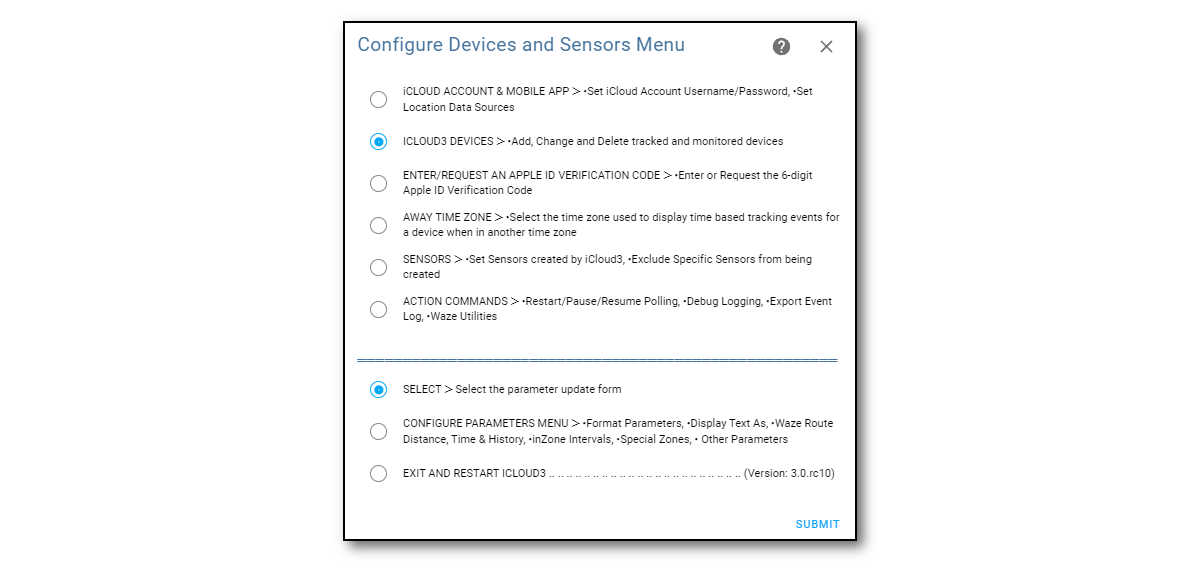
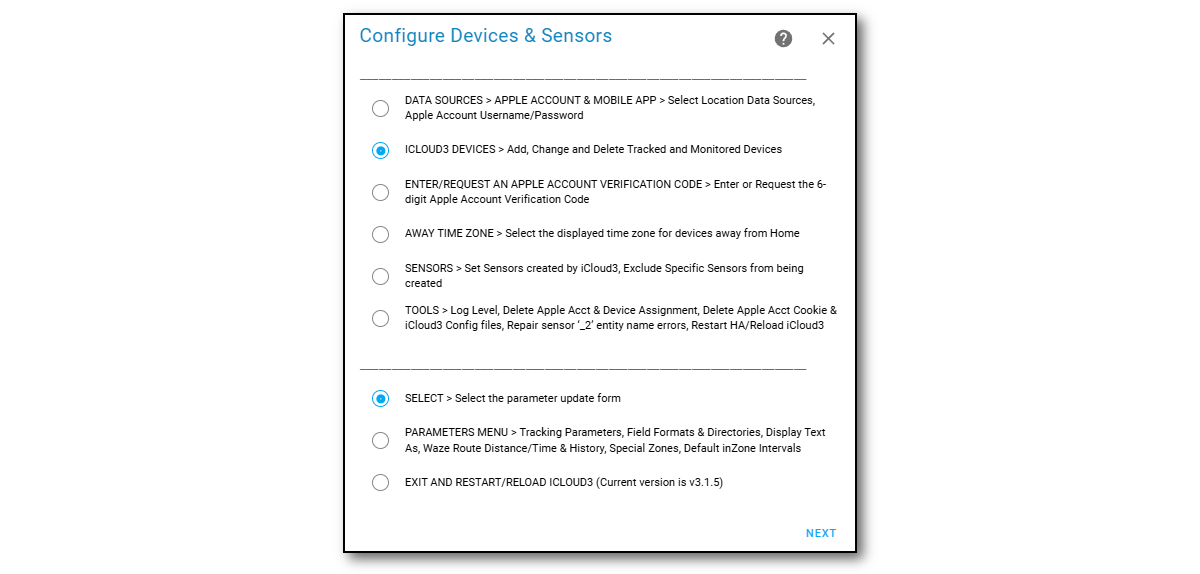
icloud3 docs

diff --git a/docs/chapters/~0.1-introduction.md b/docs/chapters/~0.1-introduction.md
@@ -1,8 +1,8 @@
 # iCloud3 v3 Device Tracker Custom Component
 
-[![CurrentVersion](https://img.shields.io/badge/Current_Version-v3.1.x-blue.svg)](https://github.com/gcobb321/icloud3_v3)  [![Type](https://img.shields.io/badge/Type-Custom_Component-orange.svg)](https://github.com/gcobb321/icloud3_v3)  [![HACS](https://img.shields.io/badge/HACS-Custom_Repository-orange.svg)](https://github.com/gcobb321/icloud3_v3)
+[![CurrentVersion](https://img.shields.io/badge/Current_Version-v3.0.0-blue.svg)](https://github.com/gcobb321/icloud3_v3)  [![Type](https://img.shields.io/badge/Type-Custom_Component-orange.svg)](https://github.com/gcobb321/icloud3_v3)  [![HACS](https://img.shields.io/badge/HACS-Custom_Repository-orange.svg)](https://github.com/gcobb321/icloud3_v3)
 
-[![ProjectStage](https://img.shields.io/badge/Project_Stage-Release_Candidate_1-forestgreen.svg)](https://github/gcobb321/icloud3_v3)  [![Released](https://img.shields.io/badge/Released-February,_2025-forestgreen.svg)](https://github.com/gcobb321/icloud3_v3)
+[![ProjectStage](https://img.shields.io/badge/Project_Stage-Release_Candidate_1-forestgreen.svg)](https://github/gcobb321/icloud3_v3)  [![Released](https://img.shields.io/badge/Released-July,_2023-forestgreen.svg)](https://github.com/gcobb321/icloud3_v3)
 
 
 
@@ -15,8 +15,7 @@ Although Home Assistant has it's own official iCloud component, iCloud3 goes far
 
 - **HA Integration** - iCloud3 is a Home Assistant custom integration that is set up and configured from the *HA Settings > Devices & Services > Integrations* screen.
 - **Configuration Settings** - All of the parameters are updated on configuration screens selected from the *iCloud3 Integrations* entry.
-- **Track devices from several sources** - Family members on the iCloud Account Family Sharing list and devices that have installed the HA Mobile App can be tracked.
-- **Multiple Apple Accounts** - Devices from up to 10 Apple Accounts can be tracked.
+- **Track devices from several sources** - Family members on the iCloud Account Family Sharing list, those who are sharing their location on FindMy App and devices that have installed the HA Mobile App can be tracked.
 - **Actively track a device** - The device will request it's location on a regular interval.
 - **Passively monitor a device** - The device does not request it's location but is tracked when another tracked device requests theirs.
 - **Waze Route Service** - The travel time and route distance to a tracked zone (Home) is provided by Waze.
@@ -25,12 +24,12 @@ Although Home Assistant has it's own official iCloud component, iCloud3 goes far
 - **Log Zone Activity** - Save zone enter/exit information to a .csv file for selected zones. This file can be imported into a spreadsheet program (Excel) and used for zone activity reports, Expense Reporting, zone usage monitoring, etc.
 - **Local Time Zone Support** - Times can be displayed in the local time zone when you are in another time zone.
 - **Improved GPS Accuracy** - GPS wandering errors leading to incorrect zone exits are eliminated.
-- **Stationary Zone** - A dynamic *Stationary Zone* is created when the device has not moved for a while (doctors office, store, friend's house). This helps conserve battery life. This is then deleted when all devices have exited the zone.
-- **Sensors and more sensors** - Many sensors are created and updated with distance, travel time, polling data, battery status, zone attributes, etc. You can customize the sensors that are created to meet your needs.
-- **Event Log** - The Event Log is a custom Lovelace card and is an important component of iCloud3 that tells you what is going on. It shows how devices are configured, how iCloud3 starts and sets up your devices, location and tracking events, errors and alerts, nearby devices, debug information, etc.
-- **Detailed debugging information** - Several levels location history transactions can be displayed in the Event Log or in the iCloud3 Log File. These include general information, debug data and the raw device location data received from iCloud Location Services.
+- **Stationary Zone** - A dynamic *Stationary Zone* is created when the device has not moved for a while (doctors office, store, friend's house). This helps conserve battery life. This is then deleted when all devices have exited.
+- **Sensors and more sensors** - Many sensors are created and updated with distance, travel time, polling data, battery status, zone attributes, etc. The sensors that are created is customizable.
+- **Event Log** - The current status and event history of every tracked and monitored device is displayed on the iCloud3 Event Log custom Lovelace card. It shows information about devices that can be tracked, errors and alerts, nearby devices, tracking results, debug information and location request results.
+- **Detailed debugging information** - Several levels location history transactions can be displayed in the Event Log or in the Home Assistant Log File. These include general information, debug data and the raw device location data received from iCloud Location Services.
 - **Updating and Restarting** - iCloud3 can be restarted without restarting Home Assistant. The current device_tracker and sensor entity states are restored on a restart.
-- **Device_tracker and sensor entities** - iCloud3 devices and sensors are true Home Assistant entities that are configured with the iCloud3 Configure screens.
+- **Device_tracker and sensor entities** - iCloud3 devices and sensors are true Home Assistant entities. They are added, deleted and updated using *The Configurator*.
 - **Nearby Devices** - The location of all devices is monitored and the distance between devices is determined. Information from devices close to each other is shared.
 - **And More** - Review the following documentation to see if it will help you track and monitor the locations of your family members and friends.
 
@@ -42,15 +41,19 @@ The screens below are an example of how the many tracking sensors can be display
 
 
 
-
-
-
 ### iCloud3 Documentation
 
 - Introduces the many features and components of iCloud3
-- Provides step-by-step instructions to install and configure iCloud3, it's components and it's supporting components (iCloud Account and the Mobile App)
+
+- Describes how to migration from v2.4.7 to v3.0
+
+- Provides step-by-step to install and configure iCloud3, it's components and it's supporting components (iCloud Account and the Mobile App)
+
 - Highlights the configuration screens and parameters
+
 - Provides example screens, automations and scripts
+
+- Go [here](https://gcobb321.github.io/icloud3_v3/#/) to review the documentation.
 
   
 
@@ -61,7 +64,9 @@ iCloud3 can be installed two ways:
 - Using HACS
 - Downloading the *icloud3.zip* file from the *iCloud3 GitHub Repository Releases Page* [here](https://github.com/gcobb321/icloud3_v3/releases). 
 
-The procedures for both methods are described in the *Installing and Configuring iCloud3* chapter [here](chapters/2.0-installing-and-configuring.md).
+The procedures for both methods are described in the *Installing and Configuring iCloud3* chapter [here](chapters/2.0-installing-and-configuring.md):
+
+
 
 
 

diff --git a/docs/chapters/1.0-ic3-components.md b/docs/chapters/1.0-ic3-components.md
@@ -1,0 +1,137 @@
+# iCloud3 Components
+
+There are 3 major parts to the iCloud3 custom component that are used to configure, track and report device location information. They are:
+
+- iCloud3 Custom Component 
+- Event Log
+- Configure Settings
+
+This section describes each of the items.
+
+
+
+------
+
+### 1.1 iCloud3 Custom Component
+
+The iCloud3 Custom Component provides the core device tracking service. It does the following:
+  - Initializes and sets up all tracking activities for the Devices using location data from iCloud Location Services or the Mobile App device_tracker entity (or both).
+  - Monitors the Mobile App device_tracker entity for location changes, zone enter/exit triggers and battery information.
+  - Requests and processes location data from iCloud Location Services and the Mobile App.
+  - Analyzes the location data and tracks the devices.
+  - Updates the sensors associated with each device.
+
+> The iCloud3 program files are installed in the *config/custom_components/icloud3* directory on your HA server.
+
+
+The screens below show examples of a tracked device's current status. The following is displayed:
+
+- Gary, on the left, is at Home. Lillian, on the Right is Away.
+  - Arrive item - The icons and text show Gary is at Home (Home icon in a circle and he arrived home at @3:22p. Lillian is traveling towards home. Notice the distance, travel time and travel direction from the Home Zone. 
+- Notice when the device was last located by iCloud or the Mobile App, when it was last updated by iCloud3 and the time of the next update. 
+- Gary is tracking from Home and the Quail Zone, Lillian just from Home.
+- The *Info* field shows tracking results from nearby devices is being used.
+
+
+![](../images/track-gary-home-lillian-away-captions.png)
+
+
+
+Note: The Lovelace code for these screens is in [Step #5 - Set up a Lovelace card tracking card](.../2.0-installing-and-configuring?id=step-6-set-up-a-lovelace-card-tracking-card) 
+
+------
+
+### 1.2 Event Log
+
+The Event Log is a Lovelace custom card that shows past and current activity related to tracking a device. This includes:
+
+- Startup configuration.
+- Device information for Apple account and Mobile App devices and entities
+- Tracking results including zone, travel time and distance data
+- Error messages, problems and location data issues.
+- Detail tracking monitors that show what is going on under the covers, how location data from the iCloud Location Services and the Mobile App is analyzed and processed
+
+The *Actions* command on the Event Log is used to control iCloud3 operations. This includes:
+- Restart iCloud3 without restarting Home Assistant
+- Pause and resume tracking
+- Relocate all devices or a specific device
+- Issue a *Find My Device* alert
+- Export the Event Log to a text file
+- Show/hide tracking monitors
+- Set the Log Level (info, debug, rawdata) indicating the type of data to write to the *icloud3.log* file
+- Run Waze History Database maintenance functions
+
+Note: The Event Log is installed into the *config/www/icloud3* directory. This directory can be changed on the *Configure > Parameters Menu > Field Formats and Event Log Overrides* screen but there is really no need to do that.
+
+
+![](../images/track-evlog-gary-tfz-away-lillian-home.png)
+
+
+
+#### 1.2.1 Quick Link Icons
+
+The icons above the *Actions* command menu list in the top-right are used for various iCloud3 activities.
+
+| Icon                                                      | Description                                                  |
+| --------------------------------------------------------- | ------------------------------------------------------------ |
+| ![evlog-icons-refresh](../images/evlog-icons-refresh.png) | **Refresh** - This updates the Event Log screen with new activity for the selected device. |
+| ![](../images/evlog-icons-coffee.png)                     | **Buy Me a Coffee** - You find iCloud3 useful, appreciate the work I have done and want to send me a few dollars, euros, pesos, pounds, etc. Thanks. I appreciate it. |
+| ![](../images/evlog-icons-issues.png)                     | **GitHub Issue** - You are having a problem and think you may have found a bug or other problem. This takes you to the iCloud3 GitHub Issues page to create a new issue or to review existing issues. |
+| ![](../images/evlog-icons-config.png)                     | **Configure** - This is a shortcut to the *HA Settings > Integrations > iCloud3* screen. Select *Configure* to display the various configuration screens. |
+| ![](../images/evlog-icons-help.png)                       | **User Manual** - This opens the iCloud3 User Manual.        |
+
+
+
+
+------
+
+### 1.3  iCloud3 Configuration
+
+The iCloud3 configuration screens are used to:
+- Add and update Apple accounts
+- Add and update tracked and monitored devices. You can assign the Apple account device and Mobile App device that provides location and other data, zone and tracking parameters, a picture or icon, etc
+- Select the sensors to be updated during tracking operations
+- Run special Tools to fix configuration problems
+- Configure other tracking and formatting parameters
+- Set up Special Zones and specify how Waze Route Tracking should be configured
+
+
+#### Open the Configuration screens
+Select one of the following:
+- **Configure Icon** shortcut on the *Event Log screen* or
+- **☰ > HA Settings > Devices & Services > Integrations > iCloud3** screen
+
+Then select *Configure*
+
+![](../images/cf-configure.png)
+
+#### Using the Configuration screens
+The *Configure* screens consists of 2 menus and 10 parameter entry screens. Each screen has two parts:
+
+- **Selection or parameter entry (top part)** - This is used to select a task to be done, an item to be selected or an option list/text field for the parameter being configured.
+- **Command or Action to be done (bottom part)** - First select the desired option (Select/Next/Add/Update/Delete/etc.), then select the command in the bottom right-hand corner of the screen (Next/Submit/Finish/etc.).
+
+The example screens below show these 2-sections. These and the other screens are described in detail in the *Configuring iCloud3 Parameters* chapter.
+
+
+
+##### Main Menu screens
+
+The menus are used to select the specific update screen.
+
+![](../images/cf-menu-1-2-sbs.png)
+
+
+
+##### iCloud3 Device screen
+
+Adding a new devices and updating an existing device is done on this screen.
+![](../images/cf-device-update.png)
+
+
+
+##### Field Formats screen
+
+Configuring how information should be displayed in the device_tracker and sensor entities and on the Event Log screen. 
+![](../images/cf-format-settings.png)
+

diff --git a/docs/_sidebar.md b/docs/_sidebar.md
@@ -20,12 +20,9 @@
 ------
 - [**User Guide Index**](chapters/0.3-index.md)
 
-------
-- **Installing iCloud3**
-- [ Migrating from v2 to v3](chapters/3.1-migrating-v2-to-v3.md)
-- [ As a New Installation](chapters/3.2-installing-and-configuring.md)
 -----
 - **iCloud3 Components**
+- [iCloud3 Components](chapters/1.0-ic3-components/md)
 - [ Tracking Results screen](chapters/1.1-tracking-results-screen.md)
 - [ Event Log](chapters/1.2-event-log.md)
 - [ Configure iCloud3 Settings](chapters/1.3-configure-settings.md)
@@ -35,6 +32,11 @@
 - [ iCloud Account Family Sharing Devices](chapters/2.1-icloud-account.md)
 - [ iCloud Account Authentication](chapters/2.2-apple-id-verification.md)
 - [ Mobile App Integration, Mobile App Entities](chapters/2.3-mobile-app.md)
+
+------
+- **Installing iCloud3**
+- [ Migrating from v2 to v3](chapters/3.1-migrating-v2-to-v3.md)
+- [ As a New Installation](chapters/3.2-installing-and-configuring.md)
 
 ------
 - **Reference**
